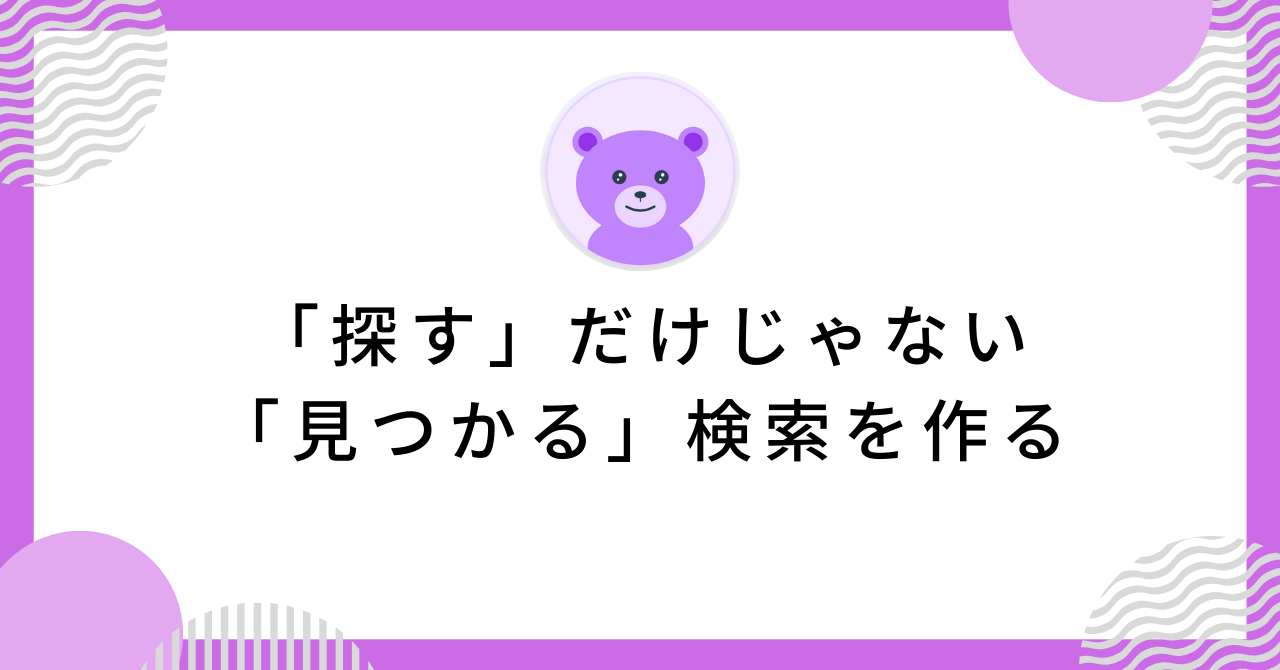
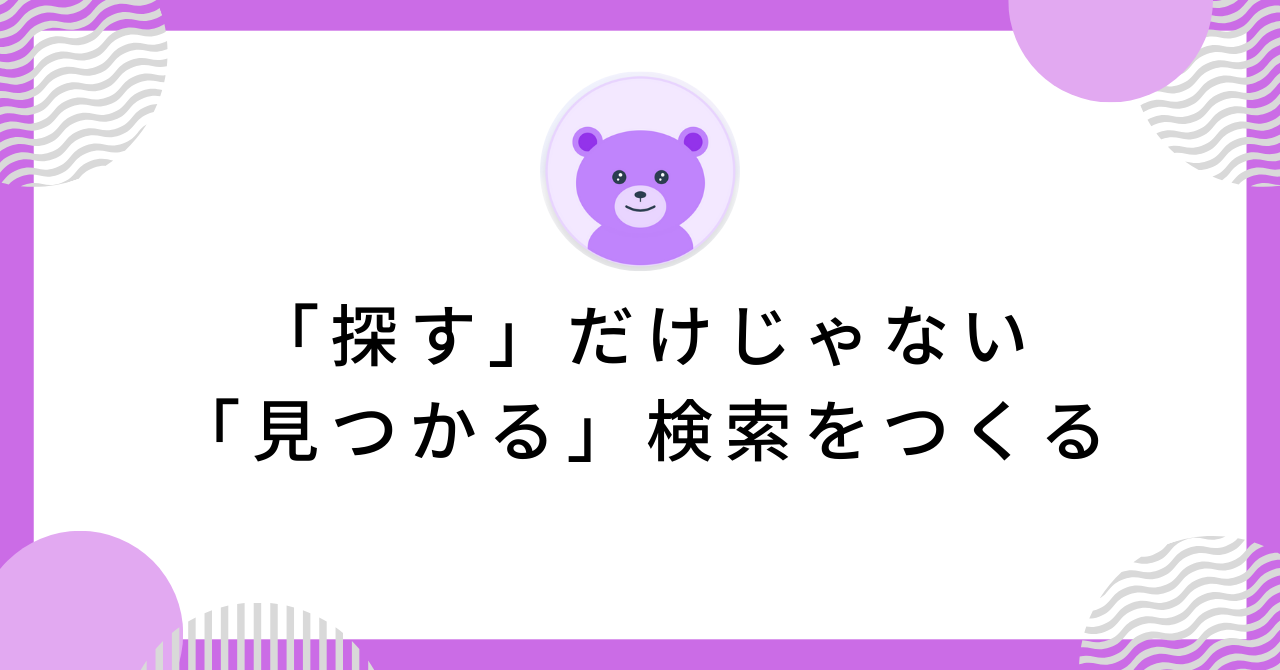
fix: Day5 note記事のタイトルと画像を修正
🤖 Generated with [Claude Code](https://claude.com/claude-code)

Changed region(s): [[0.1562, 0.597, 0.875, 0.6866]]

diff --git a/note/20251205-note-search-discovery.md b/note/20251205-note-search-discovery.md
@@ -1,4 +1,4 @@
-# 「探す」だけじゃない「見つかる」検索を作る
+# 「探す」だけじゃない「見つかる」検索をつくる
 
 個人開発で「Memoreru」というプロダクトを作っています。知識を整理し、思考を育てるためのツールです。
 
